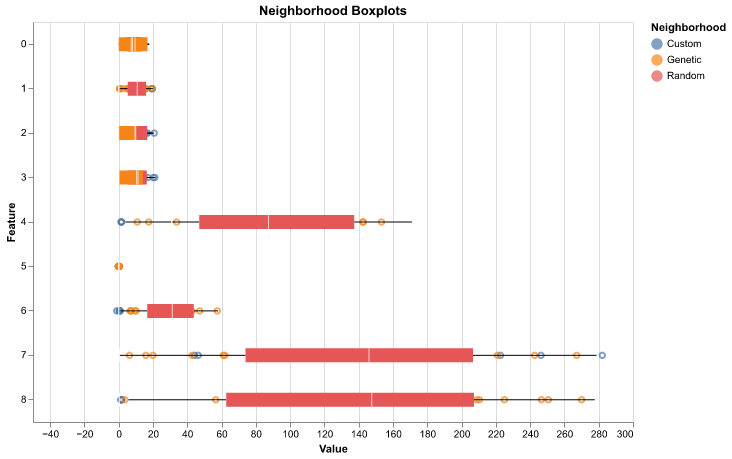
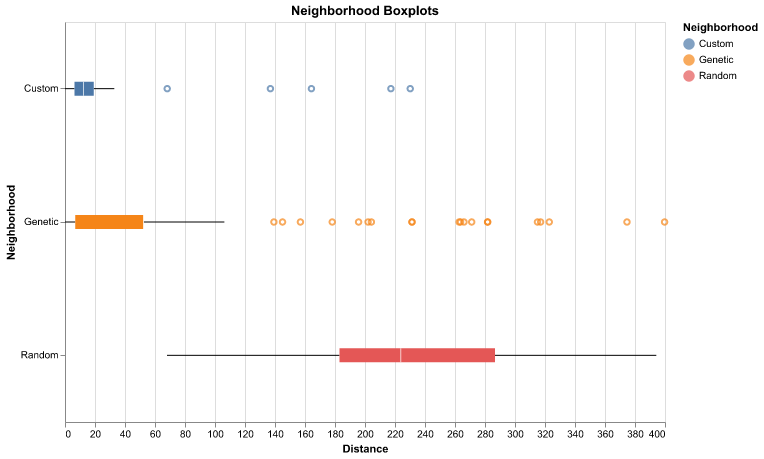
WIP visualize the pair_wise_distances

diff --git a/main_vessels.py b/main_vessels.py
@@ -247,34 +247,24 @@ def create_and_train_model(df):
 
 
 
-def save_neighborhood(neighborhood, file_path):
-    """Save neighborhood to a file."""
-    with open(file_path, 'wb') as f:
-        pickle.dump(neighborhood, f)
-
-def load_neighborhood(file_path):
-    """Load neighborhood from a file."""
-    with open(file_path, 'rb') as f:
-        return pickle.load(f)
-
-def visualize_neighborhoods(file_path):
-    random_n, custom_n, genetic_n=load_neighborhood(file_path)
+def visualize_neighborhoods(random_distance, custom_distance, genetic_distance):
 
     neighborhoods=[]
-    for data, label in zip([random_n, custom_n, genetic_n],['Random', 'Custom', 'Genetic']):
+    for data, label in zip([random_distance, custom_distance, genetic_distance],['Random', 'Custom', 'Genetic']):
         df = pd.DataFrame(data)
         df['Neighborhood'] = label
         neighborhoods.append(df)
 
         # Combine all data
     combined_df = pd.concat(neighborhoods, ignore_index=True)
+    combined_df.rename(columns={0: 'Distance'}, inplace=True)
 
-        # df for Altair
-    melted_df = combined_df.melt(id_vars=['Neighborhood'], var_name='Feature', value_name='Value')
 
-    chart = alt.Chart(melted_df).mark_boxplot().encode(
-            y=alt.Y('Feature:N', title='Feature'),
-            x=alt.X('Value:Q', title='Value'),
+
+
+    chart = alt.Chart(combined_df).mark_boxplot().encode(
+            x=alt.X('Distance:Q', title='Distance'),
+            y=alt.Y('Neighborhood:N'),
             color=alt.Color('Neighborhood:N', legend=alt.Legend(title='Neighborhood'))
         ).properties(
             title='Neighborhood Boxplots',
@@ -290,23 +280,14 @@ def visualize_neighborhoods(file_path):
 
 
 def generate_neighborhood(x, model, data, X_feat, y, save_dir):
-    if not os.path.exists(save_dir):
-        os.makedirs(save_dir)
-
-    instance_name = f"neighborhood_instance_{str(x)}.pkl"
-    file_path = os.path.join(save_dir, instance_name)
 
     # Check if the neighborhoods already exist
-    if os.path.exists(file_path):
-        print("Loading cached neighborhoods...")
-        return load_neighborhood(file_path)
-
     ds = TabularDataset(data=data, class_name='class N',categorial_columns=['class N'])
     encoder = ColumnTransformerEnc(ds.descriptor)
     bbox = sklearn_classifier_bbox.sklearnBBox(model)
     #generate random neigh
     random_n_generator = RandomGenerator(bbox, ds, encoder)
-    random_n = random_n_generator.generate(x,100, ds.descriptor, encoder)
+    random_n = random_n_generator.generate(x, 100, ds.descriptor, encoder)
 
     # generate custom neigh
     classifiers_generator = GenerateDecisionTrees()
@@ -319,24 +300,23 @@ def generate_neighborhood(x, model, data, X_feat, y, save_dir):
     genetic_n = genetic_n_generator.generate(x,100, ds.descriptor, encoder)
     print(genetic_n)
 
-    # Save neighborhoods to file
-    neighborhoods = (random_n, custom_n, genetic_n)
-    save_neighborhood(neighborhoods, file_path)
+    return random_n, custom_n, genetic_n
 
-    return neighborhoods
 
-    #return random_n, custom_n, genetic_n
 
 def compute_distance(X1,X2, metric:str='euclidean'):
     dists = pairwise_distances(X1, X2, metric=metric)
     return dists
 
 def measure_distance(random_n, custom_n, genetic_n, an_array):# an_array can be a point or X_feat
-    an_array = an_array.reshape(1, -1)
+    if len(an_array.shape) == 1:
+        an_array = an_array.reshape(1, -1)
+    #an_array = an_array.reshape(1, -1)
     random_distance = compute_distance(random_n, an_array)
     custom_distance = compute_distance(custom_n, an_array)
     genetic_distance = compute_distance(genetic_n, an_array)
-    return random_distance, custom_distance, genetic_distance
+
+    return random_mins, custom_mins, genetic_mins
 
 
 
@@ -387,18 +367,16 @@ if __name__ == '__main__':
 
     save_dir = "neighborhood_cache"
     instance = res.iloc[9, :-1].values  # Example instance
-    file_path = os.path.join(save_dir, f"neighborhood_instance_{str(instance)}.pkl")
-
-    if not os.path.exists(file_path):
-        random_n, custom_n, genetic_n = generate_neighborhood(instance, model, res, X_feat, y, save_dir)
-        save_neighborhood((random_n, custom_n, genetic_n), file_path)
+    #file_path = os.path.join(save_dir, f"neighborhood_instance_{str(instance)}.pkl")
+    random_n, custom_n, genetic_n = generate_neighborhood(instance, model, res, X_feat, y, save_dir)
 
     #new_lore(res, model)
     #instance = res.iloc[9, :-1].values
     #random_n, custom_n, genetic_n = generate_neighborhood(instance, model, res, X_feat, y)
-    #random_distance, custom_distance, genetic_distance = measure_distance(random_n, custom_n, genetic_n, res.iloc[9, :-1].values)
+    random_distance, custom_distance, genetic_distance = measure_distance(random_n, custom_n, genetic_n,  X_feat.to_numpy())
     #print(random_distance, custom_distance, genetic_distance)
-    chart = visualize_neighborhoods(file_path)
+    #Example: extracting a column
+    chart = visualize_neighborhoods(random_distance, custom_distance, genetic_distance)
 
 
 
